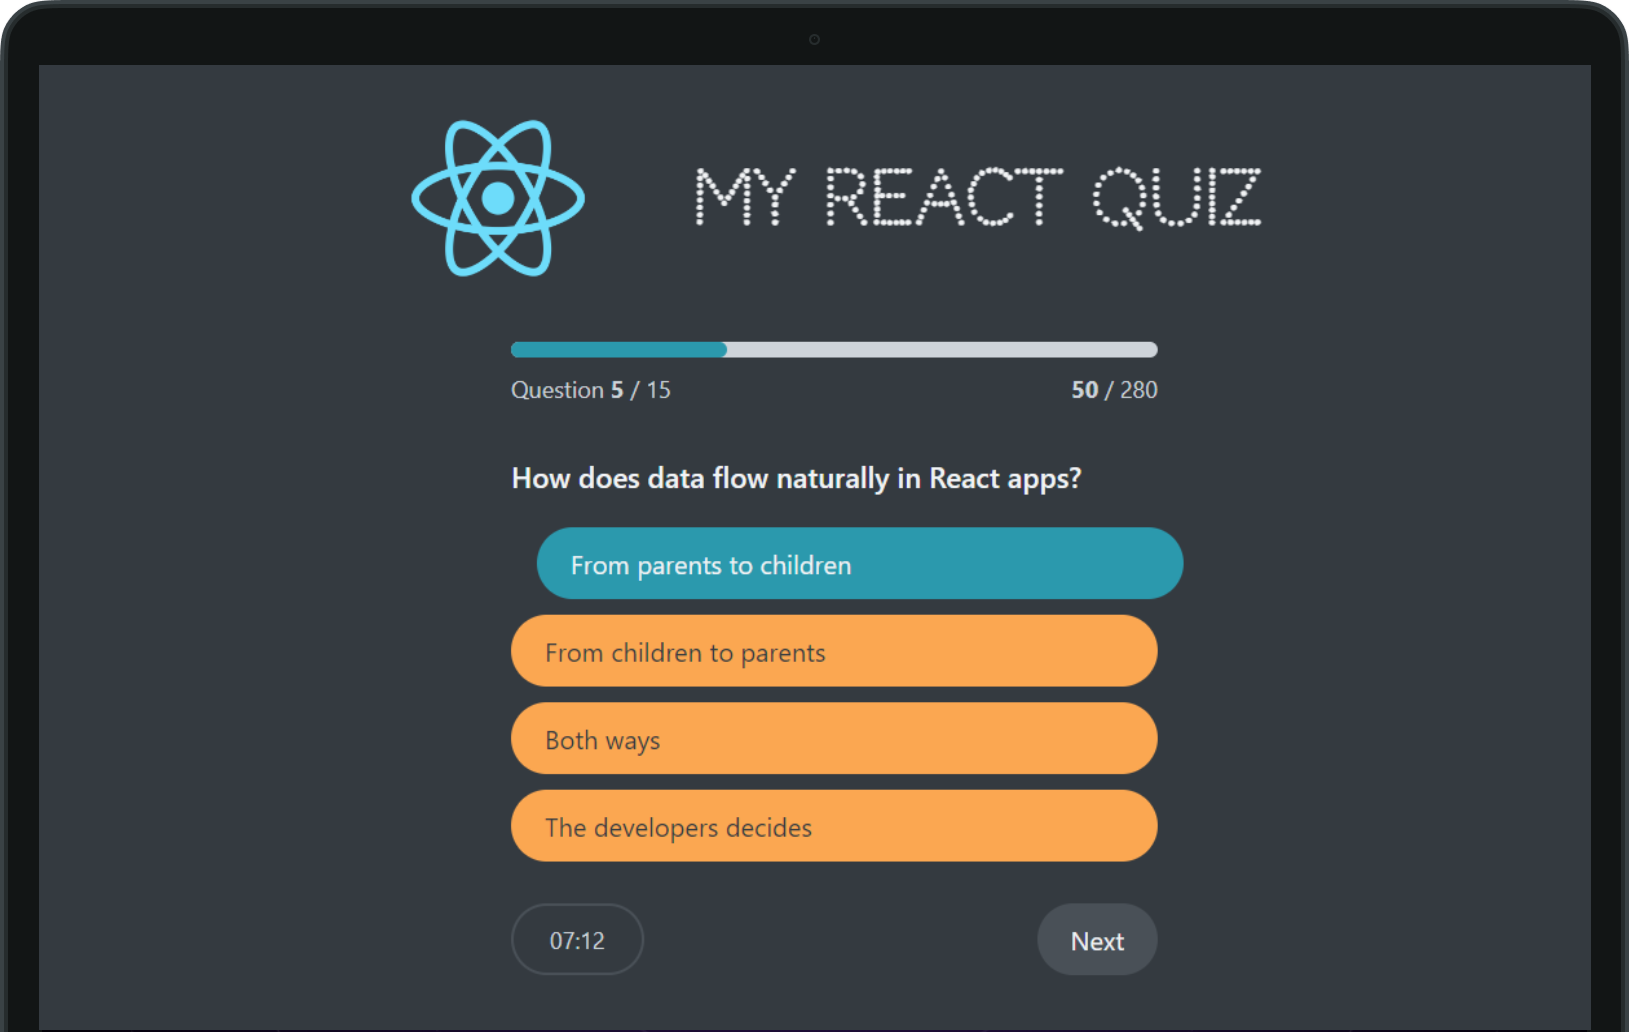
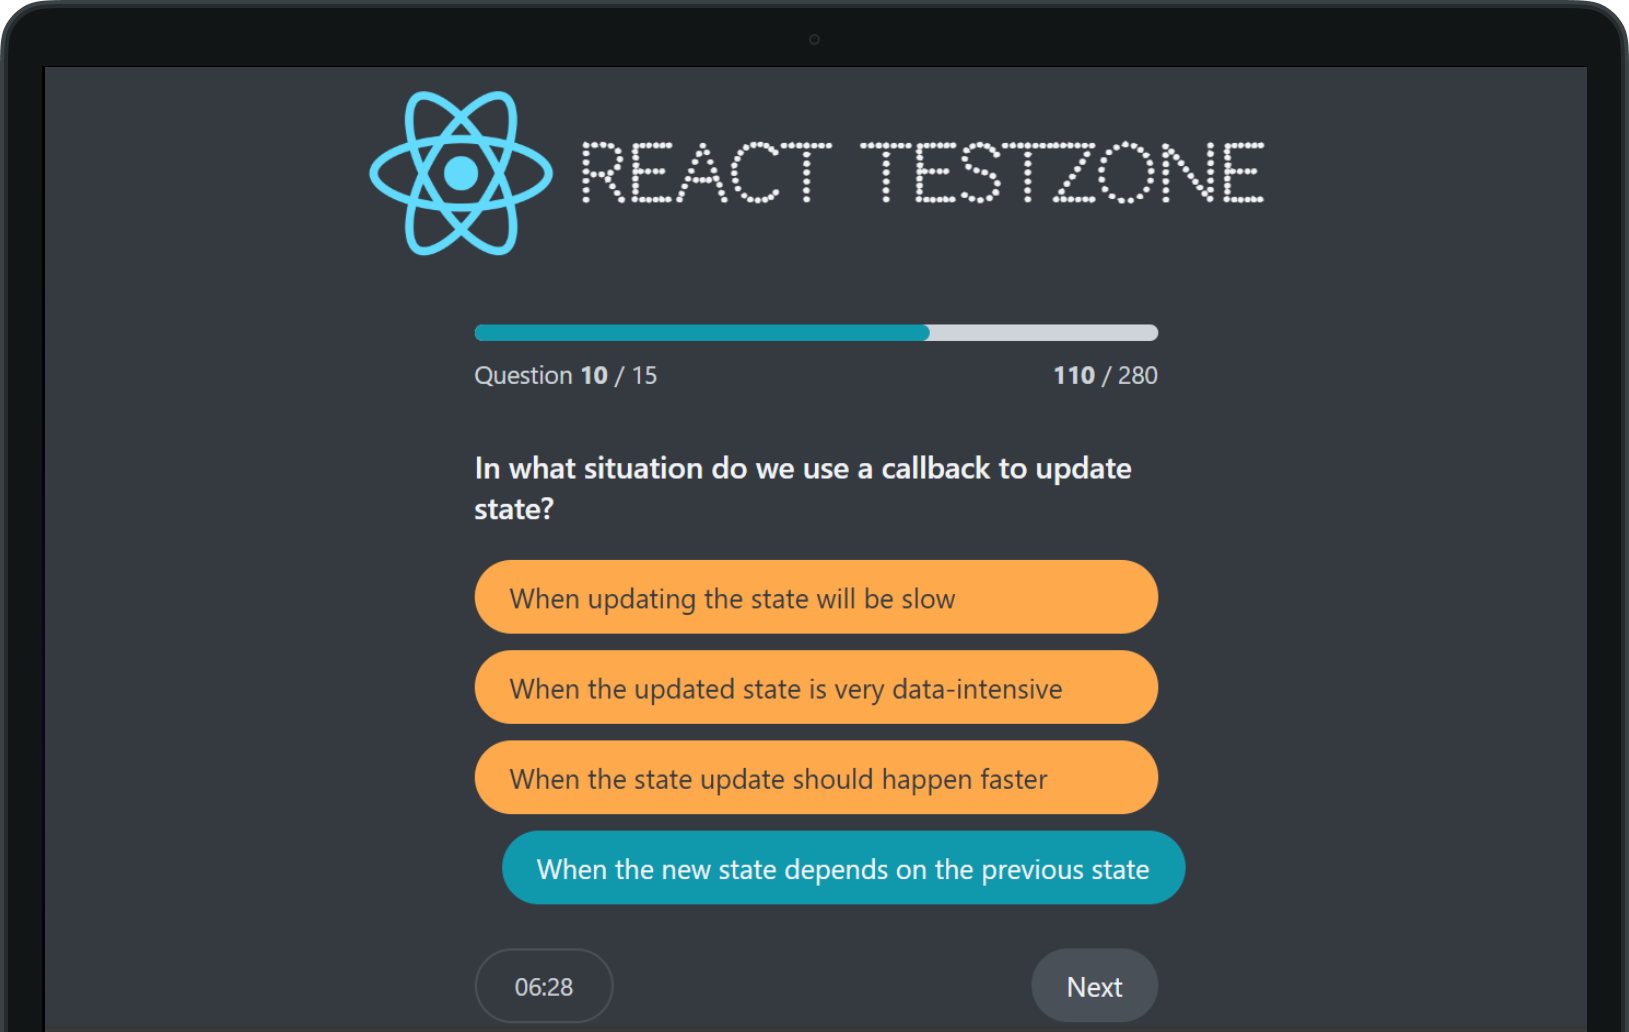
Updated testzone link

diff --git a/src/sections/Projects.tsx b/src/sections/Projects.tsx
@@ -69,12 +69,12 @@ const portfolioProjects = [
   {
     company: "Pacific Sea BPO.",
     year: "2023",
-    title: "ReactIQ Quiz Application",
+    title: "React TestZone Application",
     results: [
       { title: "State Management with ContextAPI" },
       { title: "Single page application" },
     ],
-    link: "#",
+    link: "https://reactiq-quiz.vercel.app/",
     image: quiz,
   },
   {
